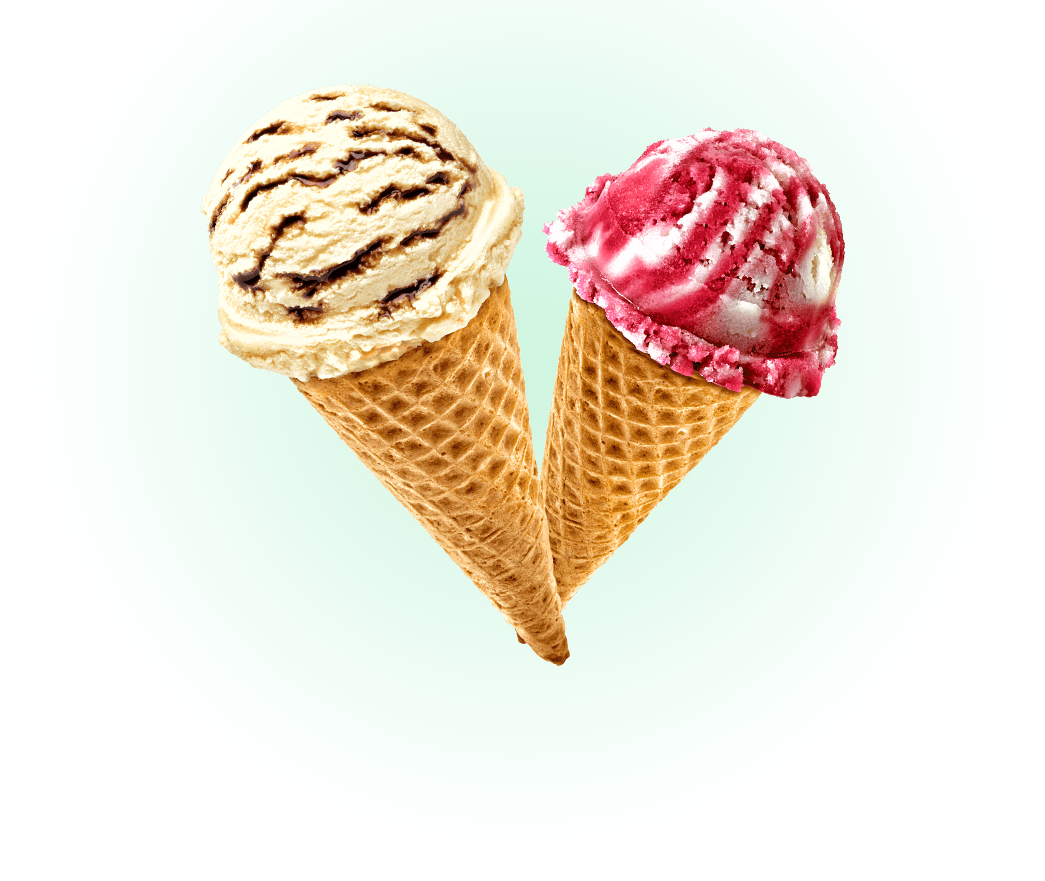
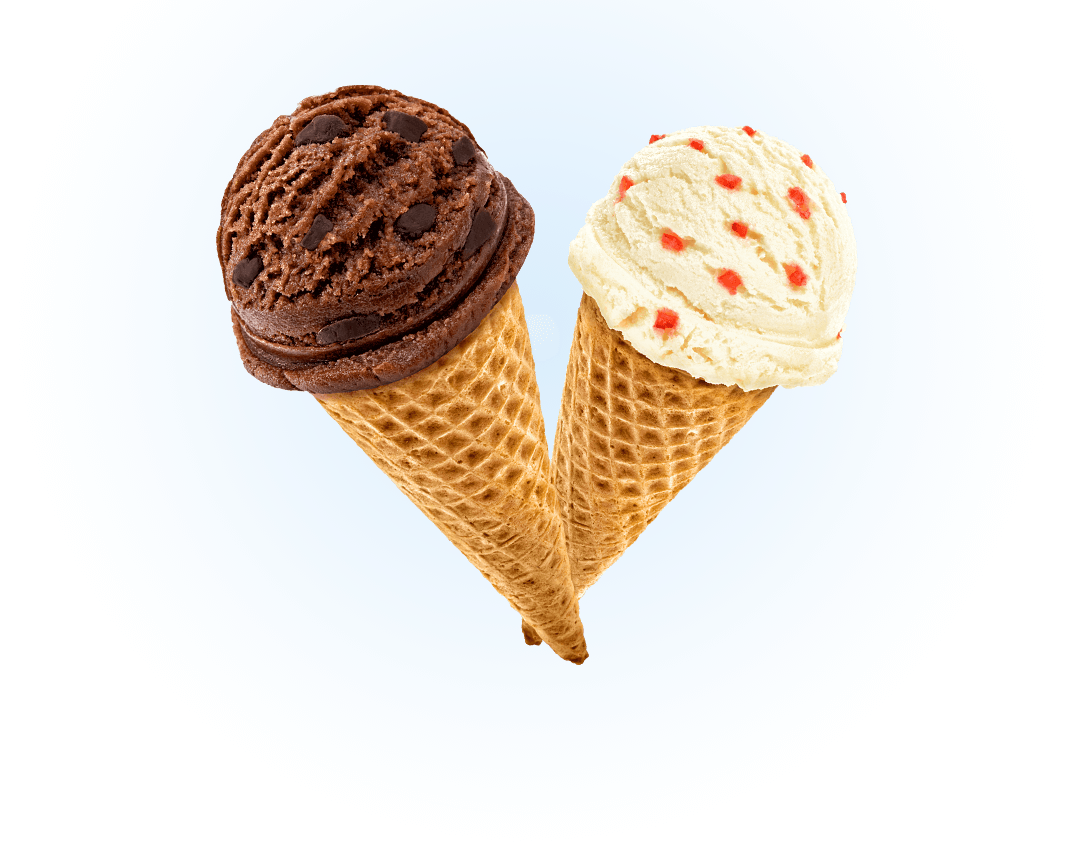
Слайдер без состояний переключателей

Changed region(s): [[0.1837, 0.0908, 0.8268, 0.787]]

diff --git a/index.html b/index.html
@@ -9,7 +9,7 @@
     <link rel="stylesheet" href="css/style.css">
     <title>Глейси</title>
   </head>
-  <body style="background-color: #849d8f; background-image: url('img/Slider-1.png'); background-repeat: no-repeat; background-position: top center;">
+  <body style="background-color: #849d8f; background-image: url('img/Slider-0.png'); background-repeat: no-repeat; background-position: top center;">
     <header class="main-header">
       <a>
         <img src="img/logo.svg" width="154" height="64" alt="Логотип Глейси">
@@ -229,6 +229,8 @@
       <button class="modal-close" type="button" aria-label="Закрыть"></button>
     </section>
     <div class="modal-overlay"></div>
+
+    <script src="js/script.js"></script>
 
   </body>
 </html>

diff --git a/js/script.js b/js/script.js
@@ -1,0 +1,21 @@
+var body = document.querySelector("body");
+var sliderRadios = document.querySelectorAll(".slider-radio");
+var sliderItems = document.querySelectorAll(".slider-item");
+var backgrounds = ["#849D8F", "#8996A6", "#9D8B84"];
+
+
+var changeBackground = (index) => {
+  body.style.backgroundColor = backgrounds[index];
+  body.style.backgroundImage = "url('img/Slider-" + index + ".png')";
+}
+
+sliderRadios.forEach((sliderRadio, i) => {
+  sliderRadio.addEventListener("click", (e) => {
+    e.preventDefault();
+    changeBackground(i);
+    sliderRadios[i].classList.add("slider-current");
+  });
+});
+
+
+
